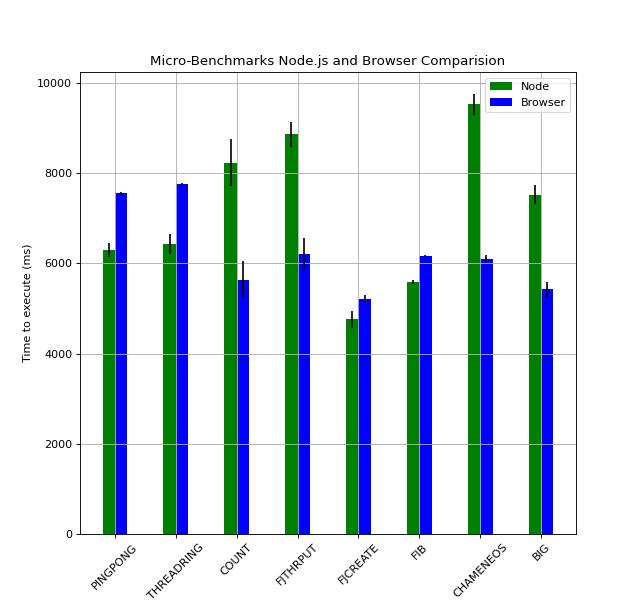
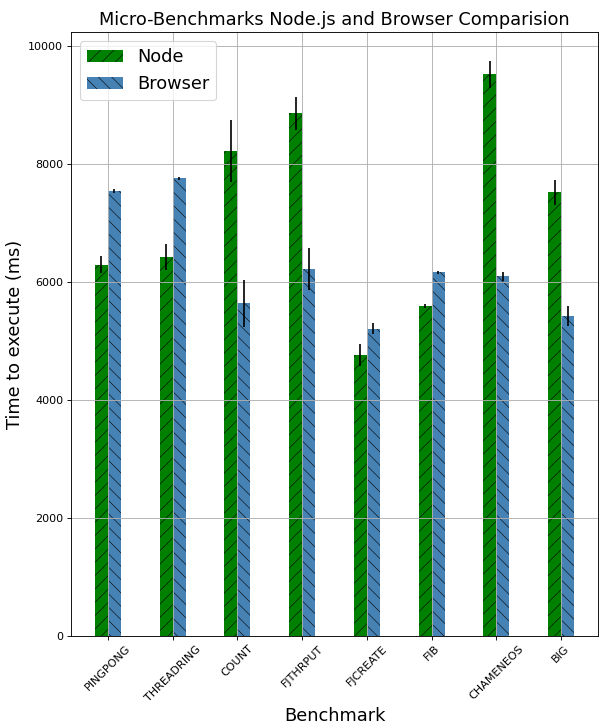
Updated tex diagrams

diff --git a/benchmarks/visualisations/speedupgraph.py b/benchmarks/visualisations/speedupgraph.py
@@ -64,7 +64,7 @@ trapezoid_speedup_err = [sem(el) for el in trapezoid_speedup_data]
 
 figure(figsize=(7.5, 6), dpi=80)
 plt.plot(keys, mandelbrot_noharvest_speedup, '-s', color='blue',
-         linewidth=3,
+         linewidth=4.5,
          markersize=10,
          markerfacecolor='blue',
          markeredgecolor='blue',
@@ -74,7 +74,7 @@ plt.fill_between(keys, np.array(mandelbrot_noharvest_speedup) - np.array(mandelb
                  np.array(mandelbrot_noharvest_speedup) + np.array(mandelbrot_noharvest_speedup_err), color='blue', alpha=0.2)
 
 plt.plot(keys, mandelbrot_withharvest_speedup, '-*', color='purple',
-         linewidth=3,
+         linewidth=4.5,
          markersize=16,
          markerfacecolor='purple',
          markeredgecolor='purple',
@@ -84,7 +84,7 @@ plt.fill_between(keys, np.array(mandelbrot_withharvest_speedup) - np.array(mande
                  np.array(mandelbrot_withharvest_speedup) + np.array(mandelbrot_withharvest_speedup_err), color='purple', alpha=0.2)
 
 plt.plot(keys, piprecision_speedup, '-D', color='red',
-         linewidth=3,
+         linewidth=4.5,
          markersize=10,
          markerfacecolor='red',
          markeredgecolor='red',
@@ -94,7 +94,7 @@ plt.fill_between(keys, np.array(piprecision_speedup) - np.array(piprecision_spee
                  np.array(piprecision_speedup) + np.array(piprecision_speedup_err), color='red', alpha=0.2)
 
 plt.plot(keys, trapezoid_speedup, '-8', color='green',
-         linewidth=3,
+         linewidth=4.5,
          markersize=10,
          markerfacecolor='green',
          markeredgecolor='green',
@@ -203,7 +203,7 @@ trapezoid_speedup_err = [sem(el) for el in trapezoid_speedup_data]
 
 figure(figsize=(7.5, 6), dpi=80)
 plt.plot(keys, mandelbrot_noharvest_speedup, '-s', color='blue',
-         linewidth=3,
+         linewidth=4.5,
          markersize=10,
          markerfacecolor='blue',
          markeredgecolor='blue',
@@ -213,7 +213,7 @@ plt.fill_between(keys, np.array(mandelbrot_noharvest_speedup) - np.array(mandelb
                  np.array(mandelbrot_noharvest_speedup) + np.array(mandelbrot_noharvest_speedup_err), color='blue', alpha=0.2)
 
 plt.plot(keys, mandelbrot_withharvest_speedup, '-*', color='purple',
-         linewidth=3,
+         linewidth=4.5,
          markersize=16,
          markerfacecolor='purple',
          markeredgecolor='purple',
@@ -223,7 +223,7 @@ plt.fill_between(keys, np.array(mandelbrot_withharvest_speedup) - np.array(mande
                  np.array(mandelbrot_withharvest_speedup) + np.array(mandelbrot_withharvest_speedup_err), color='purple', alpha=0.2)
 
 plt.plot(keys, piprecision_speedup, '-D', color='red',
-         linewidth=3,
+         linewidth=4.5,
          markersize=10,
          markerfacecolor='red',
          markeredgecolor='red',
@@ -233,7 +233,7 @@ plt.fill_between(keys, np.array(piprecision_speedup) - np.array(piprecision_spee
                  np.array(piprecision_speedup) + np.array(piprecision_speedup_err), color='red', alpha=0.2)
 
 plt.plot(keys, trapezoid_speedup, '-8', color='green',
-         linewidth=3,
+         linewidth=4.5,
          markersize=10,
          markerfacecolor='green',
          markeredgecolor='green',
@@ -302,7 +302,7 @@ figure(figsize=(7.5, 6), dpi=80)
 plt.axvline(x=4, ymin=0, ymax=10, color='black', label='Local up to here')
 
 plt.plot(keys, mandelbrot_node_speedup, '-*', color='blue',
-         linewidth=3,
+         linewidth=4.5,
          markersize=16,
          markerfacecolor='blue',
          markeredgecolor='blue',
@@ -312,7 +312,7 @@ plt.fill_between(keys, np.array(mandelbrot_node_speedup) - np.array(mandelbrot_n
                  np.array(mandelbrot_node_speedup) + np.array(mandelbrot_node_speedup_err), color='blue', alpha=0.2)
 
 plt.plot(keys, mandelbrot_browser_speedup, '-D', color='red',
-         linewidth=3,
+         linewidth=4.5,
          markersize=10,
          markerfacecolor='red',
          markeredgecolor='red',

diff --git a/documentation/fyp-report/fyp.tex b/documentation/fyp-report/fyp.tex
@@ -338,7 +338,7 @@ One can observe that big, chameneos, count and fork join throughput have the wor
 The Ping Pong and Fork Join (create) benchmarks were tested on a network using different links. In this comparison, the fork join benchmark only involves the remote spawning of actors without them executing any behaviour such as terminating. This way the comparison narrows down the performance to sending (ping pong) and remote spawning (fork join).
 \begin{figure}[H]
     \begin{centering}
-        \includegraphics[width=270px]{resources/link.png}
+        \includegraphics[width=320px]{resources/link.png}
         \caption{Comparison of Communication Links}
     \end{centering}
 \end{figure}
@@ -366,7 +366,7 @@ This subsection first demonstrates the parallel nature of the benchmarks and its
 The Savina benchmark suite includes parallel benchmarks where multiple actors perform computation in parallel to complete a task. Each of the explored parallel benchmarks benefit from master-worker parallelism, where a master actor farms tasks to worker actors which will start execution in parallel. The workers then report their results to the master which will aggregate the collected data, producing the final result. The framework is tested by first executing the benchmark using only one master and one worker in separate runtimes, where the worker is limited by JavaScript's single-threaded nature.  Next, two workers are spawned on separate runtimes, each of which ideally assigned half of the computational load by the master. Since the framework is tested on a system which houses four cores, the benchmarks are scaled up to four worker runtimes running in parallel. The amount of speedup introduced over running on one worker is tested and plotted below.
 \begin{figure}[H]
     \begin{centering}
-        \includegraphics[width=390px]{resources/shared_memory_speedup.png}
+        \includegraphics[width=\textwidth]{resources/shared_memory_speedup.png}
         \caption{Node.js and Browser Comparison for Shared Memory Speedup}
     \end{centering}
 \end{figure}

diff --git a/benchmarks/visualisations/savinacomparision.py b/benchmarks/visualisations/savinacomparision.py
@@ -46,9 +46,9 @@ def compare(directory, title, output):
                 hatch='xx', label='JS Other')
     plt.rcParams['hatch.linewidth'] = 0.5
     plt.xticks(np.arange(len(averages)), list(data.keys()), rotation=45)
-    plt.title(title)
-    plt.xlabel('Environment')
-    plt.ylabel('Time to execute (ms)')
+    plt.title(title, fontsize=15)
+    plt.xlabel('Environment', fontsize=16)
+    plt.ylabel('Time to execute (ms)', fontsize=16)
     plt.grid()
     plt.legend(shadow=True, prop={'size': 18})
     plt.savefig(output)
